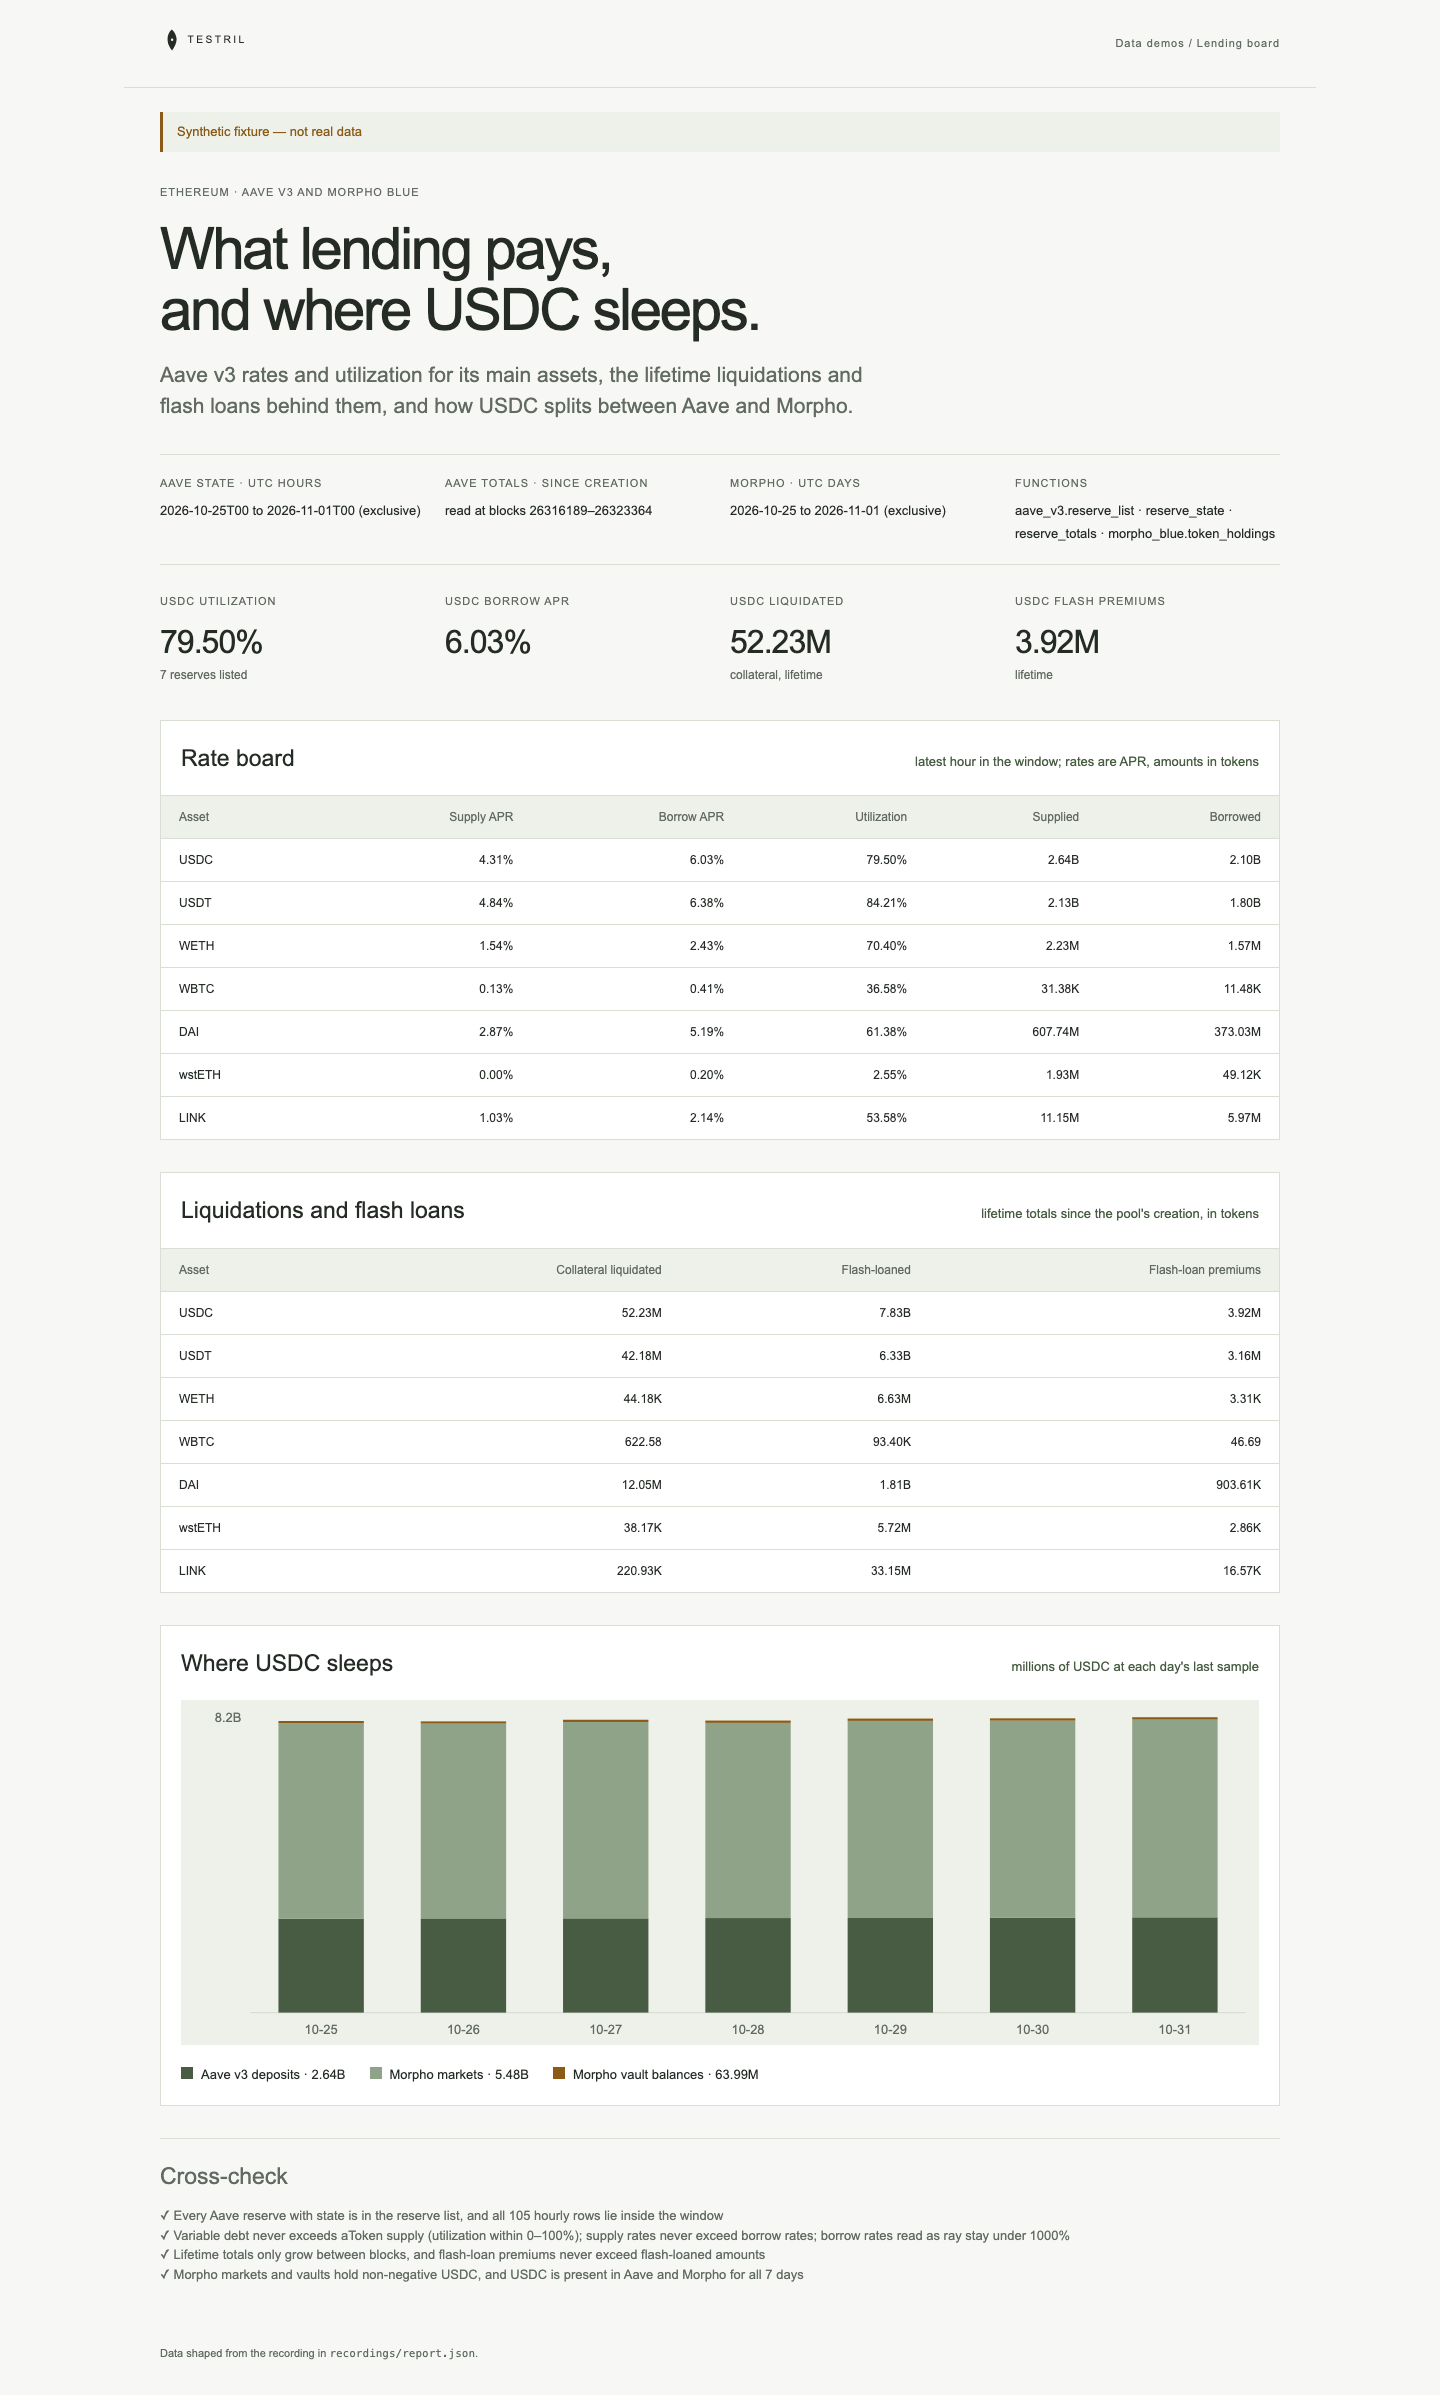
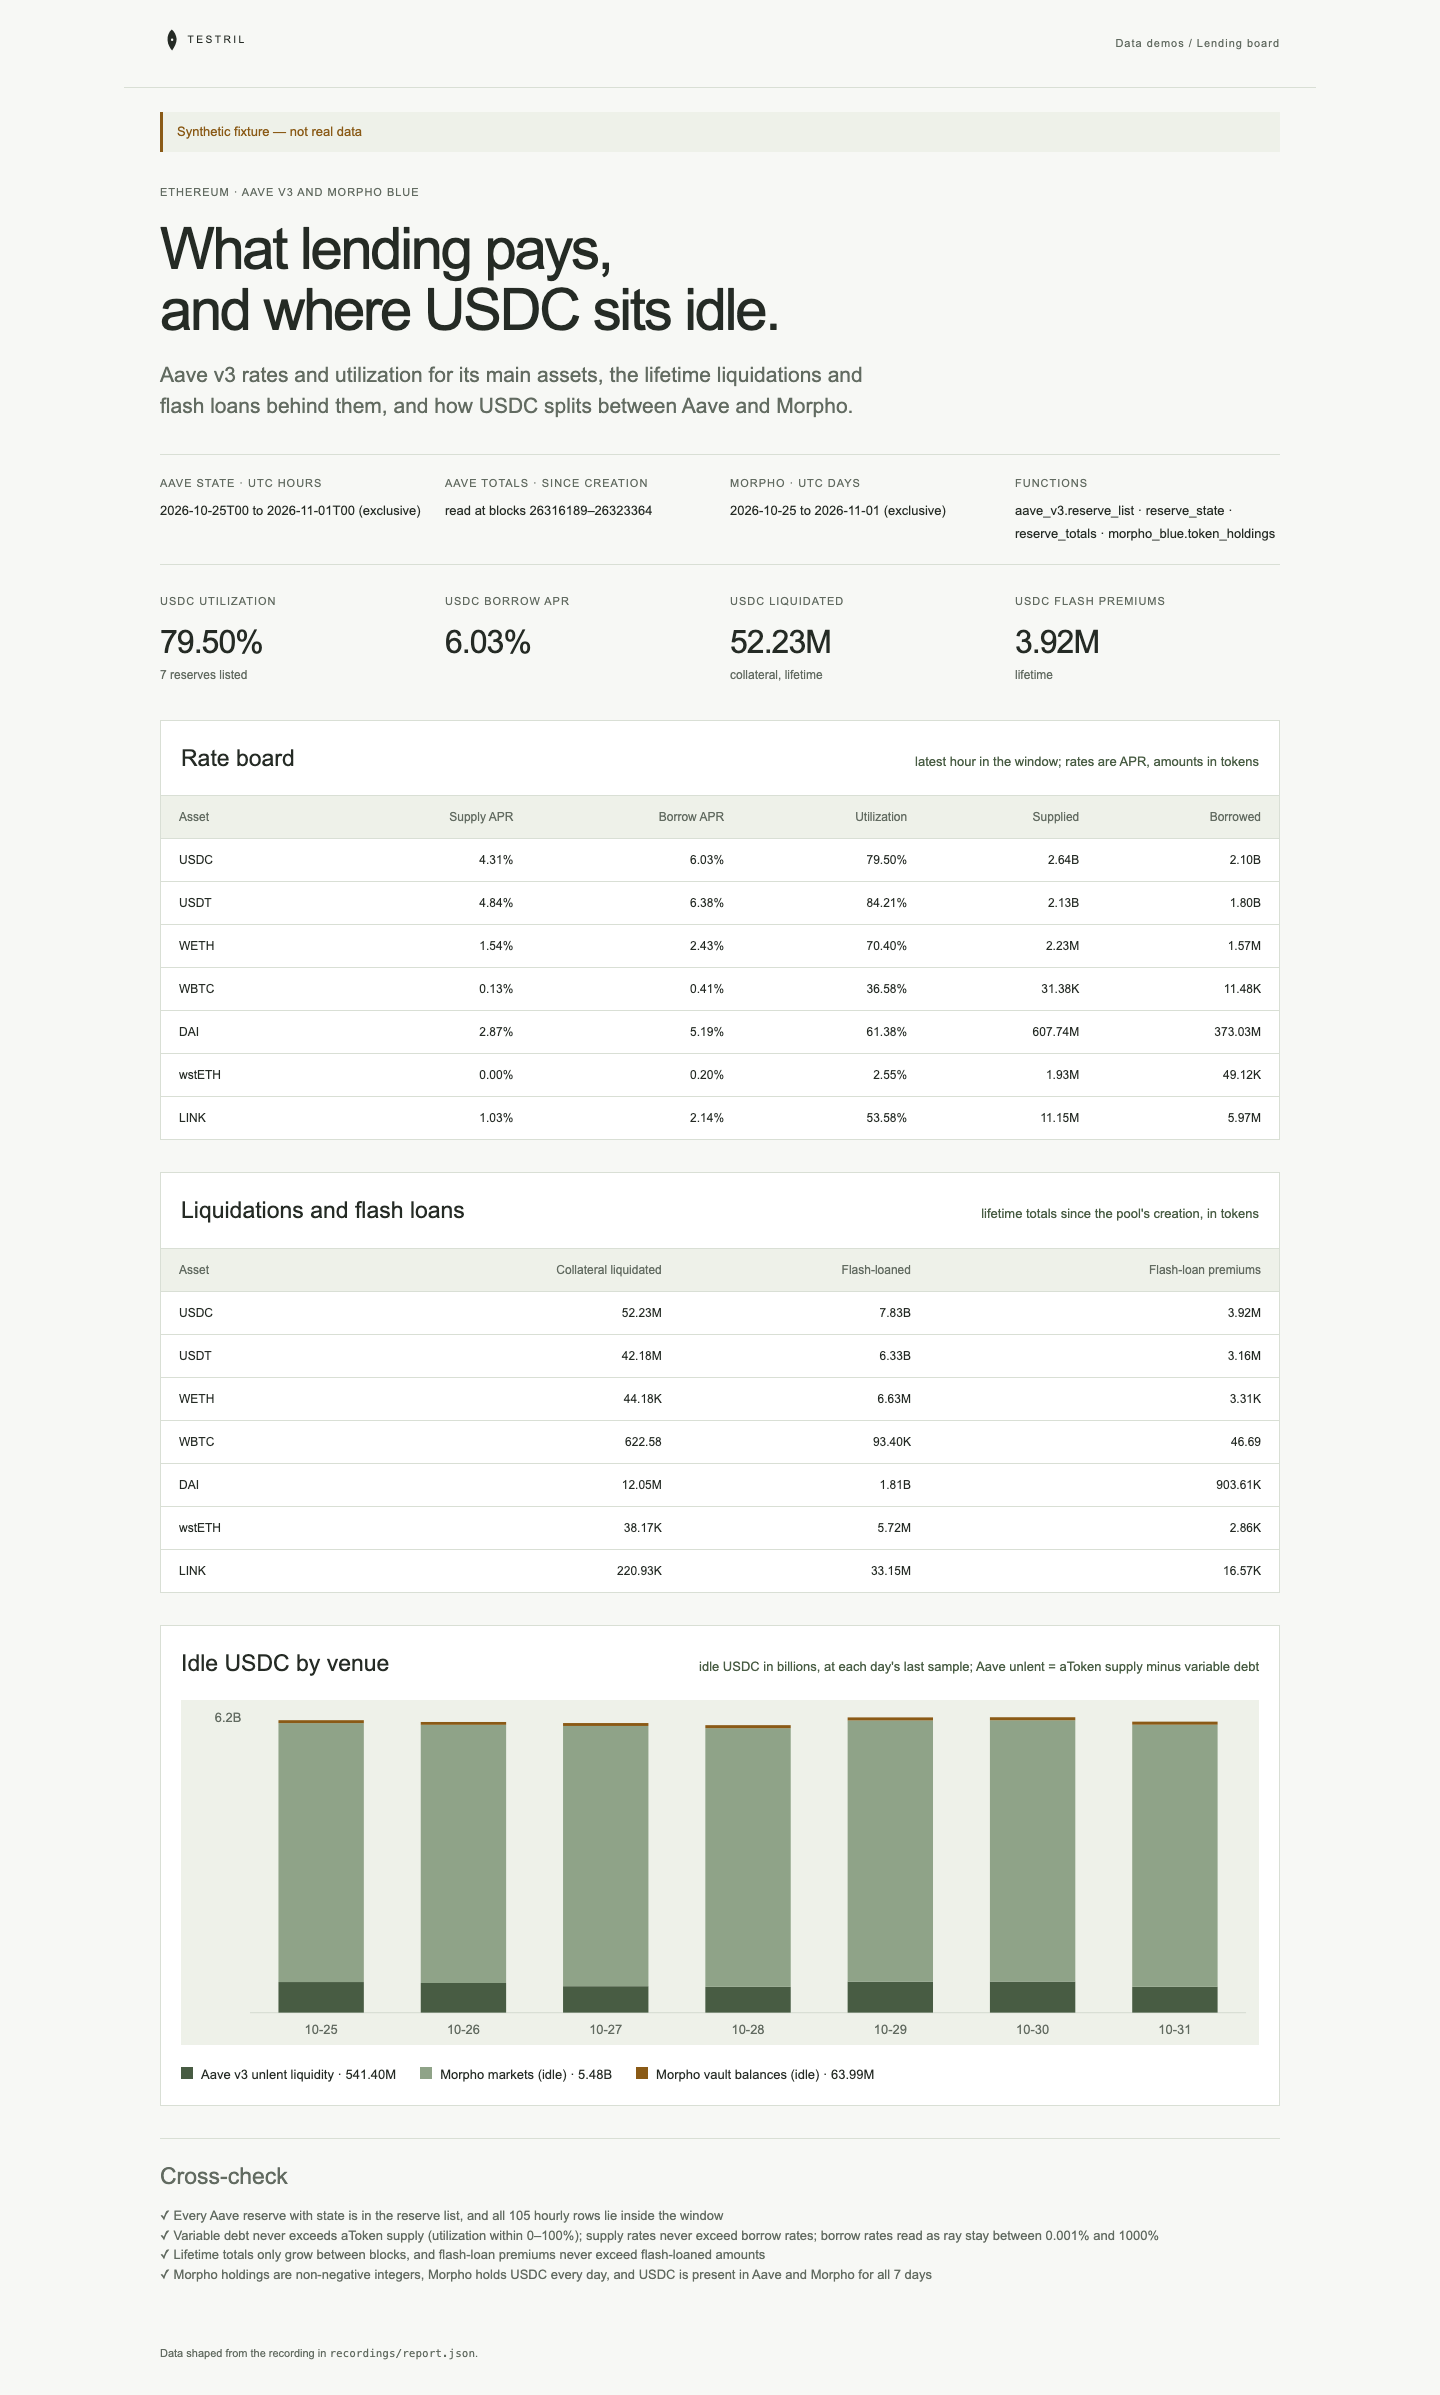
Fix lending board review findings: idle USDC by venue, rate bounds, holdings checks, README labels

diff --git a/demos/lending-board/public/app.js b/demos/lending-board/public/app.js
@@ -1,8 +1,8 @@
 const svgNs = "http://www.w3.org/2000/svg";
 const venues = [
-  ["aave", "Aave v3 deposits"],
-  ["markets", "Morpho markets"],
-  ["vaults", "Morpho vault balances"],
+  ["aaveIdle", "Aave v3 unlent liquidity"],
+  ["markets", "Morpho markets (idle)"],
+  ["vaults", "Morpho vault balances (idle)"],
 ];
 
 function svg(name, attributes = {}, text) {
@@ -44,19 +44,19 @@ function tableRows(rows, columns) {
   });
 }
 
-function stackedBars(sleeping) {
+function stackedBars(byVenue) {
   const width = 1000;
   const height = 320;
   const pad = { left: 64, right: 12, top: 16, bottom: 30 };
-  const total = (day) => day.aave + day.markets + day.vaults;
-  const max = Math.max(...sleeping.map(total));
-  const slot = (width - pad.left - pad.right) / sleeping.length;
+  const total = (day) => day.aaveIdle + day.markets + day.vaults;
+  const max = Math.max(...byVenue.map(total));
+  const slot = (width - pad.left - pad.right) / byVenue.length;
   const barWidth = slot * 0.6;
   const scale = (height - pad.top - pad.bottom) / max;
   const chart = svg("svg", {
     viewBox: `0 0 ${width} ${height}`,
     role: "img",
-    "aria-label": "USDC held in Aave, Morpho markets and Morpho vaults per day",
+    "aria-label": "Idle USDC in Aave, Morpho markets and Morpho vaults per day",
   });
   chart.append(
     svg("line", {
@@ -72,7 +72,7 @@ function stackedBars(sleeping) {
       `${(max / 1000).toFixed(1)}B`,
     ),
   );
-  sleeping.forEach((day, i) => {
+  byVenue.forEach((day, i) => {
     const x = pad.left + i * slot + (slot - barWidth) / 2;
     let y = height - pad.bottom;
     venues.forEach(([key], venueIndex) => {
@@ -147,14 +147,14 @@ function render(report) {
         "flashPremium",
       ]),
     );
-  document.querySelector("#sleeping-note").textContent =
-    "millions of USDC at each day's last sample";
+  document.querySelector("#by-venue-note").textContent =
+    "idle USDC in billions, at each day's last sample; Aave unlent = aToken supply minus variable debt";
   document
-    .querySelector("#sleeping")
-    .replaceChildren(stackedBars(view.sleeping));
+    .querySelector("#by-venue")
+    .replaceChildren(stackedBars(view.byVenue));
   document.querySelector("#legend").replaceChildren(
     ...venues.map(([key, name], i) => {
-      const item = element("li", `${name} · ${view.sleepingLatest[key]}`);
+      const item = element("li", `${name} · ${view.byVenueLatest[key]}`);
       item.prepend(element("span", "", `swatch venue-${i}`));
       return item;
     }),

diff --git a/demos/lending-board/public/index.html b/demos/lending-board/public/index.html
@@ -21,7 +21,7 @@
     <main class="measure">
       <p id="source" class="banner">Loading…</p>
       <div class="eyebrow">ETHEREUM · AAVE V3 AND MORPHO BLUE</div>
-      <h1>What lending pays,<br />and where USDC sleeps.</h1>
+      <h1>What lending pays,<br />and where USDC sits idle.</h1>
       <p class="intro">
         Aave v3 rates and utilization for its main assets, the lifetime
         liquidations and flash loans behind them, and how USDC splits between
@@ -97,10 +97,10 @@
       </section>
       <section class="results">
         <div class="section-heading">
-          <h2>Where USDC sleeps</h2>
-          <span id="sleeping-note"></span>
+          <h2>Idle USDC by venue</h2>
+          <span id="by-venue-note"></span>
         </div>
-        <div id="sleeping" class="flow"></div>
+        <div id="by-venue" class="flow"></div>
         <ul id="legend" class="legend"></ul>
       </section>
       <section class="method">

diff --git a/demos/lending-board/README.md b/demos/lending-board/README.md
@@ -1,8 +1,8 @@
 # Lending board
 
 Aave v3 rates and utilization per asset on Ethereum, the lifetime liquidations
-and flash loans behind them, and where USDC sits across Aave deposits, Morpho
-markets and Morpho vaults. The page proves its numbers: variable debt never
+and flash loans behind them, and how much USDC sits idle in Aave (aToken supply minus variable debt),
+Morpho markets and MetaMorpho v1 vaults. The page proves its numbers: variable debt never
 exceeds aToken supply, supply rates never exceed borrow rates, rates read as
 ray stay plausible, lifetime totals only grow, and Morpho holdings are not
 negative.
@@ -29,7 +29,7 @@ npm start
 
 Open http://127.0.0.1:4180 (set `PORT` to change it). Expected result: the
 synthetic banner, four USDC headline numbers, a rate board, a lifetime
-liquidations and flash-loan table, a stacked bar of USDC per day, and four
+liquidations and flash-loan table, a stacked bar of idle USDC per day, and four
 passed cross-checks.
 
 ## Test
@@ -43,39 +43,40 @@ npm run format:check
 ```
 
 `npm test` checks the cross-checks pass on the fixture and fail when debt and
-supply are swapped, when rates carry nine extra digits, when a lifetime total
-falls, when Morpho holdings are negative or when an asset misses the last hour,
+supply are swapped, when rates carry nine extra digits or lose nine, when a lifetime total
+falls, when Morpho holdings are negative, fractional or empty of USDC, or when an asset misses the last hour,
 and that the server returns the shaped report. `npm run test:browser` writes
 `docs/screenshot-desktop.png`. `npm run fixture` regenerates the recording.
 
 ## Subjects and window
 
-| Subject                                | Address                                      | Note                    |
-| -------------------------------------- | -------------------------------------------- | ----------------------- |
-| Aave v3 Ethereum PoolAddressesProvider | `0x2f39d218133afab8f2b819b1066c7e434ad94e9e` |                         |
-| Morpho Blue                            | `0xbbbbbbbbbb9cc5e90e3b3af64bdaf62c37eeffcb` |                         |
-| MetaMorpho factory v1.0                | `0xa9c3d3a366466fa809d1ae982fb2c46e5fc41101` | verify before recording |
-| MetaMorpho factory v1.1                | `0x1897a8997241c1cd4bd0698647e4eb7213535c24` | verify before recording |
-| Morpho vault factory v2                | not listed                                   | verify before recording |
-| USDC (6 decimals)                      | `0xa0b86991c6218b36c1d19d4a2e9eb0ce3606eb48` |                         |
-| USDT (6)                               | `0xdac17f958d2ee523a2206206994597c13d831ec7` |                         |
-| WETH (18)                              | `0xc02aaa39b223fe8d0a0e5c4f27ead9083c756cc2` |                         |
-| WBTC (8)                               | `0x2260fac5e5542a773aa44fbcfedf7c193bc2c599` |                         |
-| DAI (18)                               | `0x6b175474e89094c44da98b954eedeac495271d0f` |                         |
-| wstETH (18)                            | `0x7f39c581f595b53c5cb19bd0b3f8da6c935e2ca0` |                         |
-| LINK (18)                              | `0x514910771af9ca656af840dff83e8264ecf986ca` |                         |
+| Subject                                | Address                                                 | Note                    |
+| -------------------------------------- | ------------------------------------------------------- | ----------------------- |
+| Aave v3 Ethereum PoolAddressesProvider | `0x2f39d218133afab8f2b819b1066c7e434ad94e9e`            |                         |
+| Morpho Blue                            | `0xbbbbbbbbbb9cc5e90e3b3af64bdaf62c37eeffcb`            |                         |
+| MetaMorpho factory v1.1                | `0xa9c3d3a366466fa809d1ae982fb2c46e5fc41101`            | verify before recording |
+| MetaMorpho factory v1.0                | `0x1897a8997241c1cd4bd0698647e4eb7213535c24`            | verify before recording |
+| Morpho vault factory v2                | not bound: `in_vaults` covers MetaMorpho v1 vaults only |                         |
+| USDC (6 decimals)                      | `0xa0b86991c6218b36c1d19d4a2e9eb0ce3606eb48`            |                         |
+| USDT (6)                               | `0xdac17f958d2ee523a2206206994597c13d831ec7`            |                         |
+| WETH (18)                              | `0xc02aaa39b223fe8d0a0e5c4f27ead9083c756cc2`            |                         |
+| WBTC (8)                               | `0x2260fac5e5542a773aa44fbcfedf7c193bc2c599`            |                         |
+| DAI (18)                               | `0x6b175474e89094c44da98b954eedeac495271d0f`            |                         |
+| wstETH (18)                            | `0x7f39c581f595b53c5cb19bd0b3f8da6c935e2ca0`            |                         |
+| LINK (18)                              | `0x514910771af9ca656af840dff83e8264ecf986ca`            |                         |
 
 The page shows the seven assets above; a real read returns every Aave reserve.
 
 - Aave state: UTC hours `[2026-10-25T00, 2026-11-01T00)`, read at each hour's
   last block. Rates are APR (the daemon's per-year ray), shown to 0.01%.
 - Aave totals: lifetime sums since the pool's creation. A one-day block window
-  `[26316189, 26323365)` (Ethereum 2026-11-01) is enough, because a read carries
+  `[26316189, 26323365)` (about Ethereum 2026-11-01, estimated at 7,200 blocks a day: verify before recording) is enough, because a read carries
   each reserve's last row from before its window.
 - Aave reserve list: from block 16291000 (verify before recording: the
   provider's creation block).
 - Morpho: UTC days `[2026-10-25, 2026-11-01)`. "Vault balances" are the
-  vaults' idle balance of the token, not their deposits in markets.
+  vaults' idle balance of the token, not their deposits in markets, and cover
+  MetaMorpho v1 vaults only (no Vault V2 factory is bound).
 
 ## Binds (`testril.json`)
 
